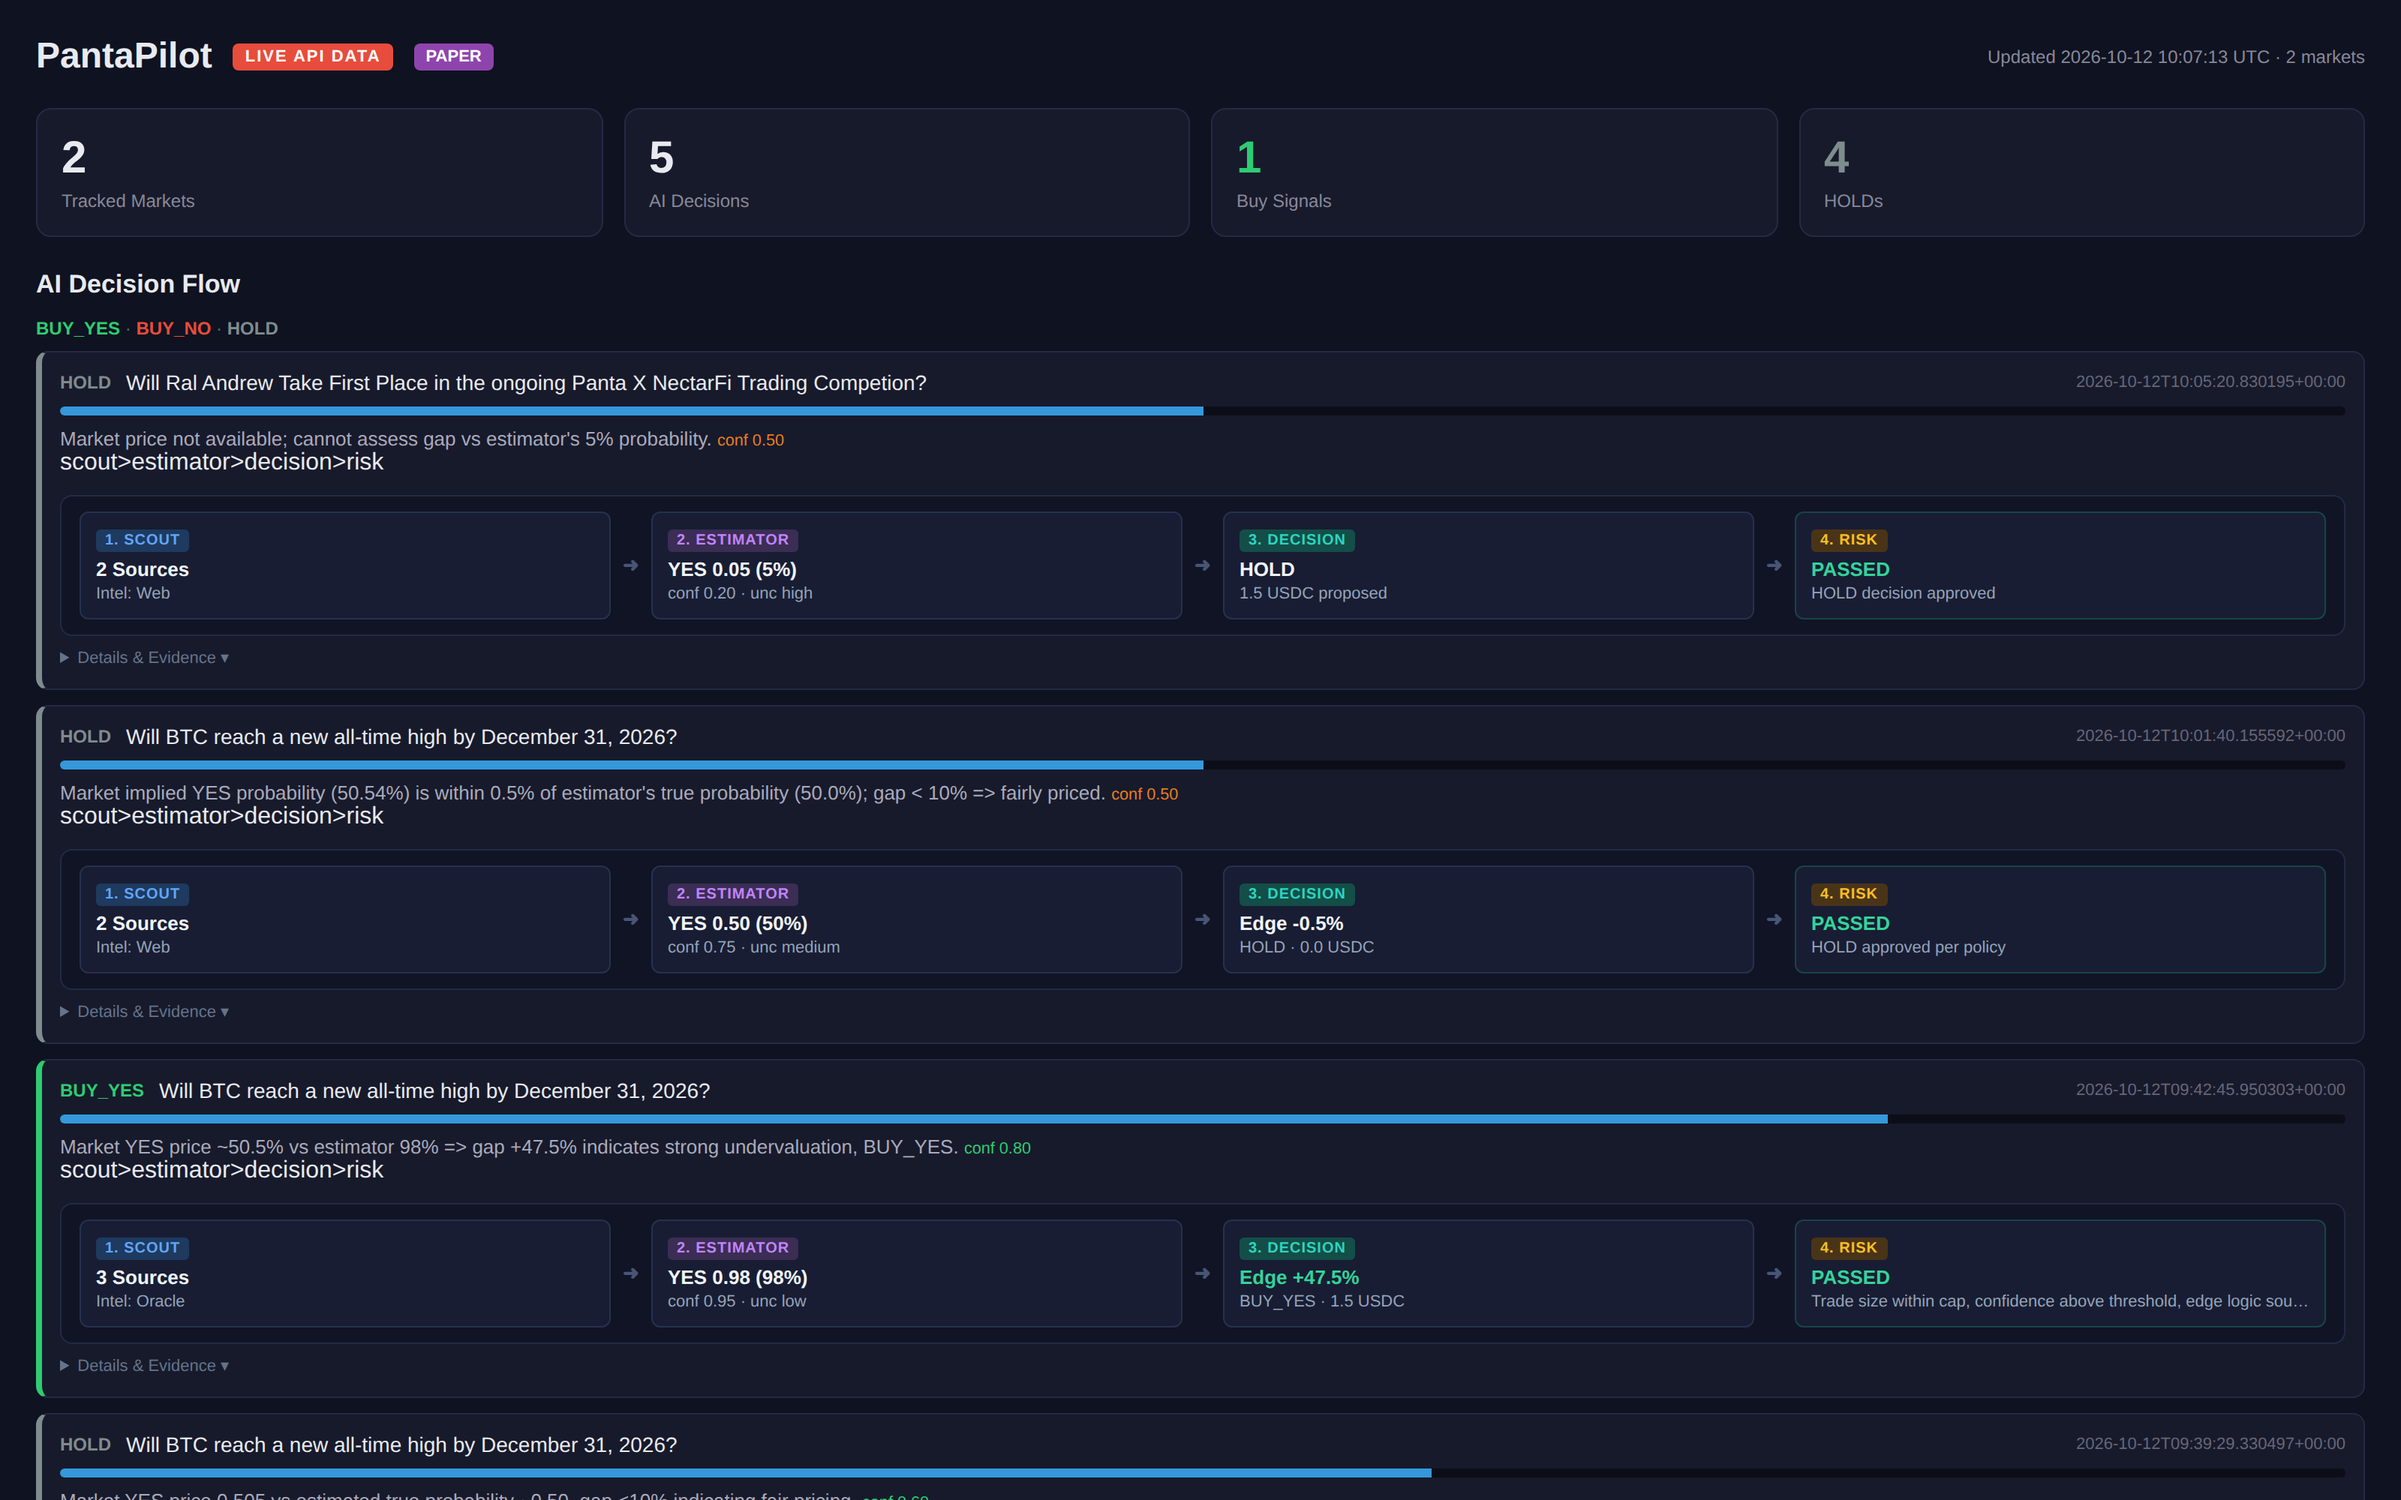
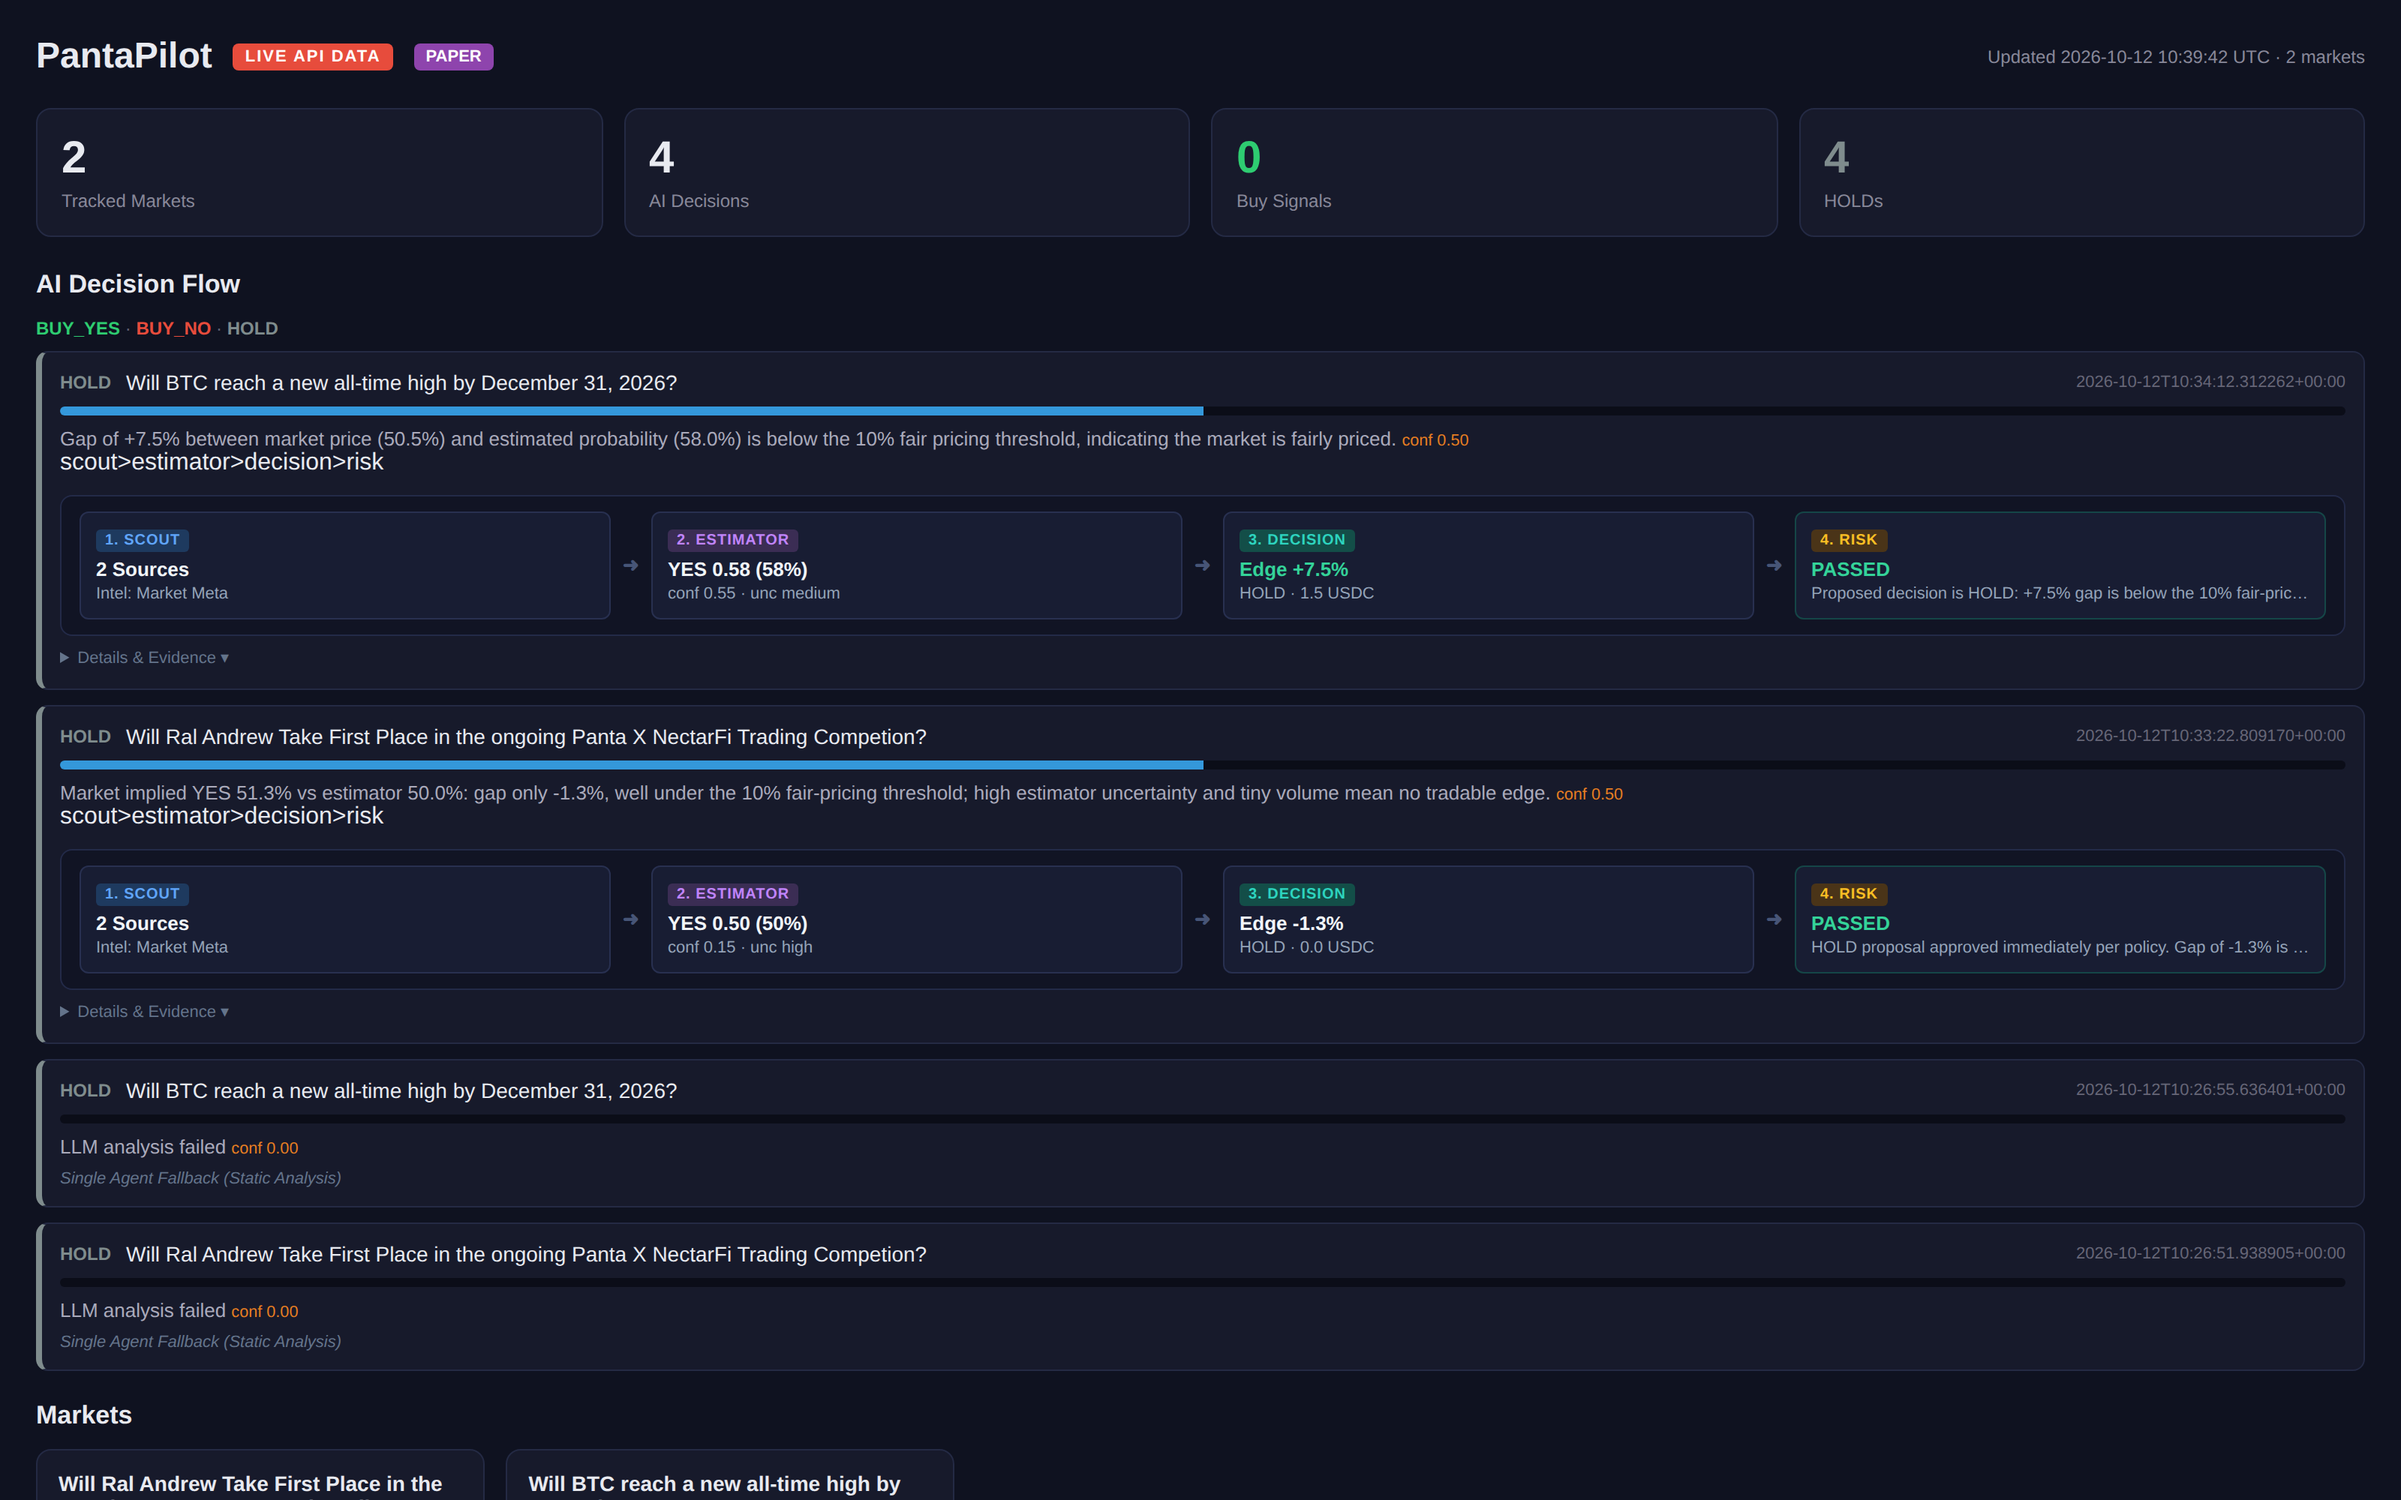
chore: switch the LLM backend to Nous Research longcat-2.5
OpenRouter's free quota ran out, which made every agent call fail and the desk
degrade to single-agent static analysis. Moved to an OpenAI-compatible endpoint
that still answers:

  LLM_BASE_URL=https://inference-api.nousresearch.com/v1
  LLM_MODEL=meituan/longcat-2.5-preview:free

Verified before switching: /v1/models returns 200 and lists the model, a real
completion returns valid JSON, and three consecutive calls all succeeded. A full
two-market round then completed with both agents reaching full four-role pipeline
status.

The new model is also better behaved on the failure we documented earlier. On the
same BTC market it returned 0.50 and 0.58, where the previous model once returned
0.98 with 'low' uncertainty and produced a spurious BUY. Both of its estimates sit
close to the market's ~0.51 and its reasons cite the actual gap (-1.3%, +7.5%).

Code needed no changes - the LLM client was already provider-agnostic - so this is
config plus prose. Updated README, .env.example, SUBMISSION.md and the checklist to
name the endpoint generically, and the demo script's on-camera startup line, which
printed the old model name.

Dropped the two fallback_single_agent records left by the quota-exhausted run; the
dashboard already labels them 'Single Agent Fallback', but they describe a billing
failure rather than product behaviour. Kept in logs/pantapilot.before-model-switch.jsonl.

diff --git a/README.md b/README.md
@@ -27,7 +27,7 @@ main.py         Orchestrator: scan → analyze → trade → log → dashboard l
 panta.py        Panta HTTP API client (markets + 5-step order chain)
 agents.py       Multi-agent team: Estimator → Decision → Risk
 scout.py        Scout: intel gathering (oracle sources + web search)
-llm.py          Single-agent fallback (OpenAI-compatible / OpenRouter)
+llm.py          Single-agent fallback (any OpenAI-compatible endpoint)
 trader.py       Order execution (dry-run semi-chain + full live chain)
 logger.py       JSONL event logging
 dashboard.py    Static self-refreshing HTML dashboard (with evidence chain)
@@ -123,9 +123,14 @@ JSONL at `logs/pantapilot.jsonl`, one event per line with `ts` (UTC ISO) and eve
 
 ## Stack
 
-Python · httpx · solders · base58 · openai (OpenRouter) · python-dotenv
+Python · httpx[socks] · solders · base58 · openai (any OpenAI-compatible endpoint) · python-dotenv
 
-LLM: OpenRouter `cohere/north-mini-code:free` (verified working).
+LLM: any OpenAI-compatible chat endpoint — set `LLM_BASE_URL`, `LLM_API_KEY` and `LLM_MODEL`
+in `.env`. Currently running `meituan/longcat-2.5-preview:free` on Nous Research
+(`https://inference-api.nousresearch.com/v1`). We moved off OpenRouter's
+`cohere/north-mini-code:free` after its quota ran out, and it turned out to be the better model:
+on the same market it returned 0.50 and 0.58 where the previous one once returned 0.98 with
+"low uncertainty", which had produced a spurious BUY.
 
 ---
 

diff --git a/SUBMISSION_CHECKLIST.md b/SUBMISSION_CHECKLIST.md
@@ -32,7 +32,7 @@ your account and email verification. Earn alone does not count (double submissio
 | Dashboard snapshot | `https://raw.githubusercontent.com/lmlive/pantapilot/master/docs/dashboard_full.png` |
 | Track | Panta API Sidetrack ($5,000) · Colosseum Crypto World's Fair |
 | Stack | Python, Panta REST API, Solana (solders/base58), OpenAI-compatible LLM, static HTML dashboard |
-| License / cost to run | Runs free — paper mode by default, needs only a free OpenRouter key |
+| License / cost to run | Runs free — paper mode by default, needs only a free OpenAI-compatible LLM key (we use `meituan/longcat-2.5-preview:free`) |
 
 ---
 
@@ -140,7 +140,7 @@ git clone https://github.com/lmlive/pantapilot.git
 cd pantapilot
 python3 -m venv .venv && source .venv/bin/activate
 pip install -r requirements.txt
-cp .env.example .env          # add a free OpenRouter key; PANTA_API_KEY optional for paper mode
+cp .env.example .env          # add any OpenAI-compatible LLM key; PANTA_API_KEY optional for paper mode
 
 python main.py                # live scan -> 4-agent desk -> logs/ + dashboard
 python backtest_real.py       # the honest null backtest (real settled markets)

diff --git a/demo_capture/DEMO_VIDEO_SCRIPT.md b/demo_capture/DEMO_VIDEO_SCRIPT.md
@@ -106,7 +106,7 @@ Legend — **[LIVE]** = must be captured from the real running product, cannot b
 **Live terminal lines the camera must show** (from `main.py` + `logger.py`):
 
 ```
-INFO pantapilot.main: PantaPilot 启动 mode=PAPER interval=... max_trade=5.0USDC model=cohere/north-mini-code:free
+INFO pantapilot.main: PantaPilot 启动 mode=PAPER interval=... max_trade=5.0USDC model=meituan/longcat-2.5-preview:free
 INFO pantapilot.main: 决策引擎: 多角色 Agent 团队 (Scout>Estimator>Decision>Risk)
 INFO httpx: HTTP Request: GET https://live-api.panta.market/api/v1/markets/ "HTTP/1.1 200 OK"
 INFO pantapilot.main: 本轮扫描到 1 个 primary 市场

diff --git a/SUBMISSION.md b/SUBMISSION.md
@@ -175,7 +175,7 @@ pip install -r requirements.txt
 
 # Configure your environment
 cp .env.example .env
-# Edit .env with your PANTA_API_KEY and LLM_API_KEY (defaults to free OpenRouter model)
+# Edit .env: LLM_BASE_URL / LLM_API_KEY / LLM_MODEL (any OpenAI-compatible endpoint)
 
 # Run in paper mode (scans live markets, runs the 4-agent desk, writes logs/, renders dashboard)
 python main.py
